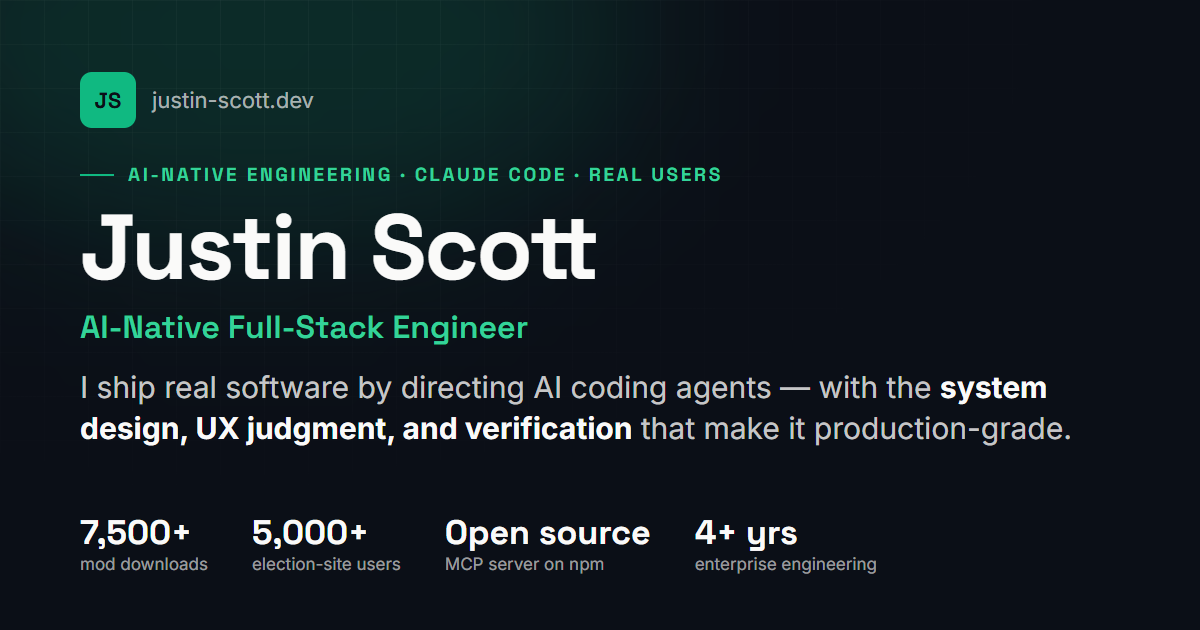
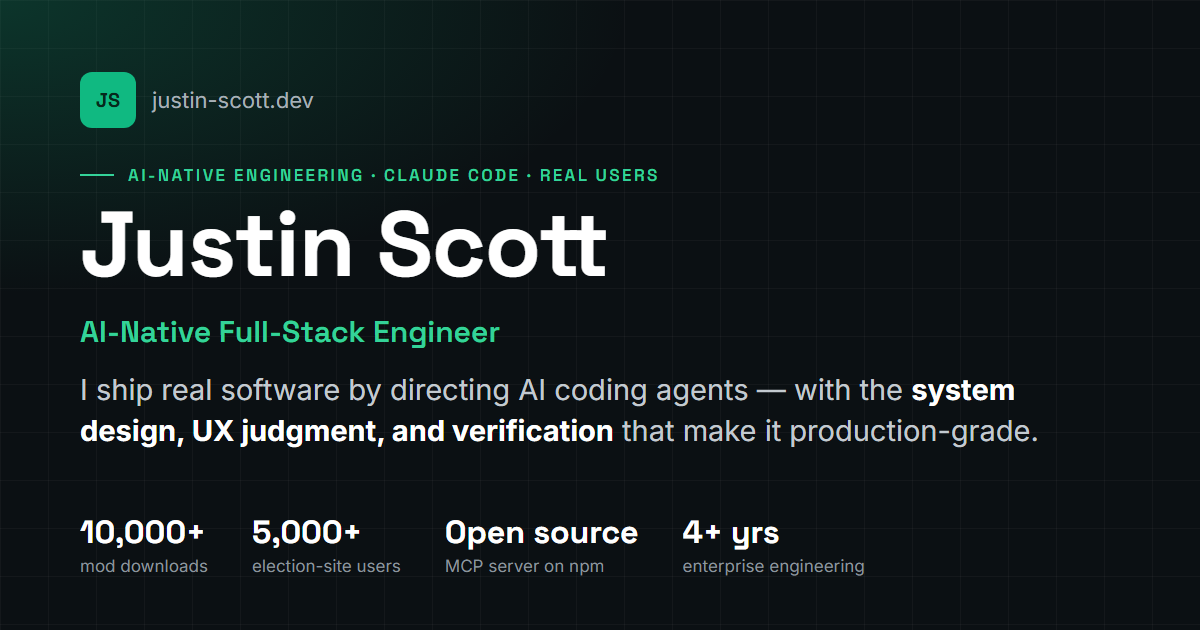
Update mod downloads to 10,000+ (Modrinth: 10,360 across 4 projects)
Hero proof strip, featured card, meta descriptions, and the share image.

diff --git a/lib/projects.ts b/lib/projects.ts
@@ -21,7 +21,7 @@ export interface Project {
 
 /*
  * Proof figures as of Oct 12, 2026: election-site users from Google Analytics (5.1K active users, Jan 1–Oct 12); mod downloads from
- * Modrinth (7,571 across all projects; Advancement Tracker 4,426);
+ * Modrinth (Nov 2, 2026: 10,360 across all projects; Advancement Tracker 5,824);
  * MCP server listed on npm (0.1.2) and the official MCP Registry.
  * LeaseTrace figures from its evals page (Nov 2, 2026): held-out leases, Opus 5.5 medium, 39 runs.
  * Avery Light FX from Google Analytics (Nov 2, 2026): 1.7K active users in calendar 2025, traffic concentrated Oct–Dec.
@@ -71,7 +71,7 @@ export const projects: Project[] = [
   {
     id: 'minecraft-mods',
     title: 'Minecraft Fabric Mods',
-    proof: '7,500+ downloads',
+    proof: '10,000+ downloads',
     description:
       'Quality-of-life Fabric mods, kept current with each Minecraft release through a Claude Code pipeline I built: a custom skill, an MCP decompiler to diff versions, and my own publishing MCP server.',
     techStack: ['Java', 'Fabric', 'Mixins', 'Gradle', 'Claude Code', 'MCP'],

diff --git a/app/layout.tsx b/app/layout.tsx
@@ -25,7 +25,7 @@ export const metadata: Metadata = {
     template: "%s | Justin Scott",
   },
   description:
-    "AI-native full-stack engineer: I ship real products by directing AI coding agents like Claude Code, with the system design, UX judgment, and verification to make them production-grade. 7,500+ mod downloads, 5,000+ users, an open-source MCP server.",
+    "AI-native full-stack engineer: I ship real products by directing AI coding agents like Claude Code, with the system design, UX judgment, and verification to make them production-grade. 10,000+ mod downloads, 5,000+ users, an open-source MCP server.",
   keywords: [
     "Justin Scott",
     "AI-Native Engineer",
@@ -63,7 +63,7 @@ export const metadata: Metadata = {
         url: "/og.png",
         width: 1200,
         height: 630,
-        alt: "Justin Scott — AI-Native Full-Stack Engineer. 7,500+ mod downloads, 5,000+ users, an open-source MCP server.",
+        alt: "Justin Scott — AI-Native Full-Stack Engineer. 10,000+ mod downloads, 5,000+ users, an open-source MCP server.",
       },
     ],
   },

diff --git a/lib/proof.ts b/lib/proof.ts
@@ -6,13 +6,13 @@ export interface ProofPoint {
 /**
  * Hero proof strip — the four numbers a recruiter should see first. Keep every figure verifiable
  * and update them when they move (as of Oct 12, 2026):
- * - mod downloads: Modrinth creator dashboard / API (7,571 across all projects)
+ * - mod downloads: Modrinth creator dashboard / API (Nov 2, 2026: 10,360 across all projects)
  * - election-site users: Google Analytics, 5.1K active users Jan 1–Oct 12, 2026
  * - MCP: npm downloads, last 30 days (201; steady ~6–8/day since the Aug launch spike)
  * - enterprise: Idemia-NSS since Mar 2022 (intern → software engineer)
  */
 export const proofPoints: ProofPoint[] = [
-  { value: '7,500+', label: 'downloads of my Minecraft mods' },
+  { value: '10,000+', label: 'downloads of my Minecraft mods' },
   { value: '5,000+', label: 'users on my election-results site this year' },
   { value: '200+/mo', label: 'npm downloads of my open-source MCP server' },
   { value: '4+ yrs', label: 'shipping enterprise software at Idemia-NSS' },

diff --git a/app/page.tsx b/app/page.tsx
@@ -13,7 +13,7 @@ import { getAllSkills } from '@/lib/skills';
 export const metadata: Metadata = {
   title: { absolute: 'Justin Scott — AI-Native Full-Stack Engineer' },
   description:
-    'AI-native full-stack engineer: I ship real products by directing AI coding agents like Claude Code, with the system design, UX judgment, and verification to make them production-grade. 7,500+ mod downloads, 5,000+ users, an open-source MCP server.',
+    'AI-native full-stack engineer: I ship real products by directing AI coding agents like Claude Code, with the system design, UX judgment, and verification to make them production-grade. 10,000+ mod downloads, 5,000+ users, an open-source MCP server.',
   // OpenGraph/Twitter (incl. og.png + url) inherited from the root layout.
 };
 
